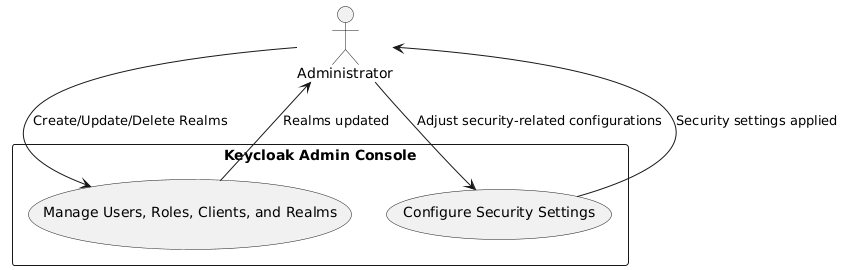
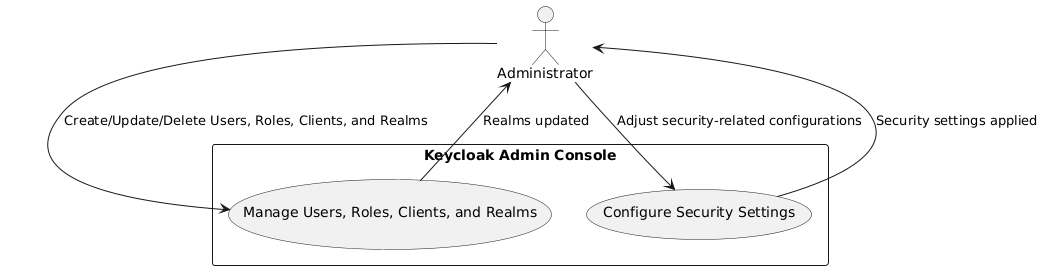
adding realms

diff --git a/Software_Security_Requirements/user_interface.md b/Software_Security_Requirements/user_interface.md
@@ -23,11 +23,14 @@ Keycloak provides a web-based Admin Console for administrators (human interactio
   - Databases: The Keycloak server accesses the database and provides information to the Admin Console.
   - Authentication and Authorization Mechanisms: The Admin Console relies on Keycloak's authentication and authorization mechanisms to control access to its features.
   - Session Management: Keycloak uses session management to maintain user sessions and state information.
+
 # 2. Develop Use Case Diagrams
 Create use case diagrams illustrating the interactions of actors with your system.
 - Use the provided [Use Case Sample](Use_Case_Sample.drawio) file as a template for diagramming.
 - ![Access Admin Console](web_console/Access_Admin_Console.png)
 - ![Management](web_console/Management.png)
+- ![Realm Management](web_console/Realm_Management.png)
+
 # 3. Derive Security Requirements
 For each use case, perform a security analysis to identify associated security requirements.
 - Focus on misuses that are relevant to your environment and context.
